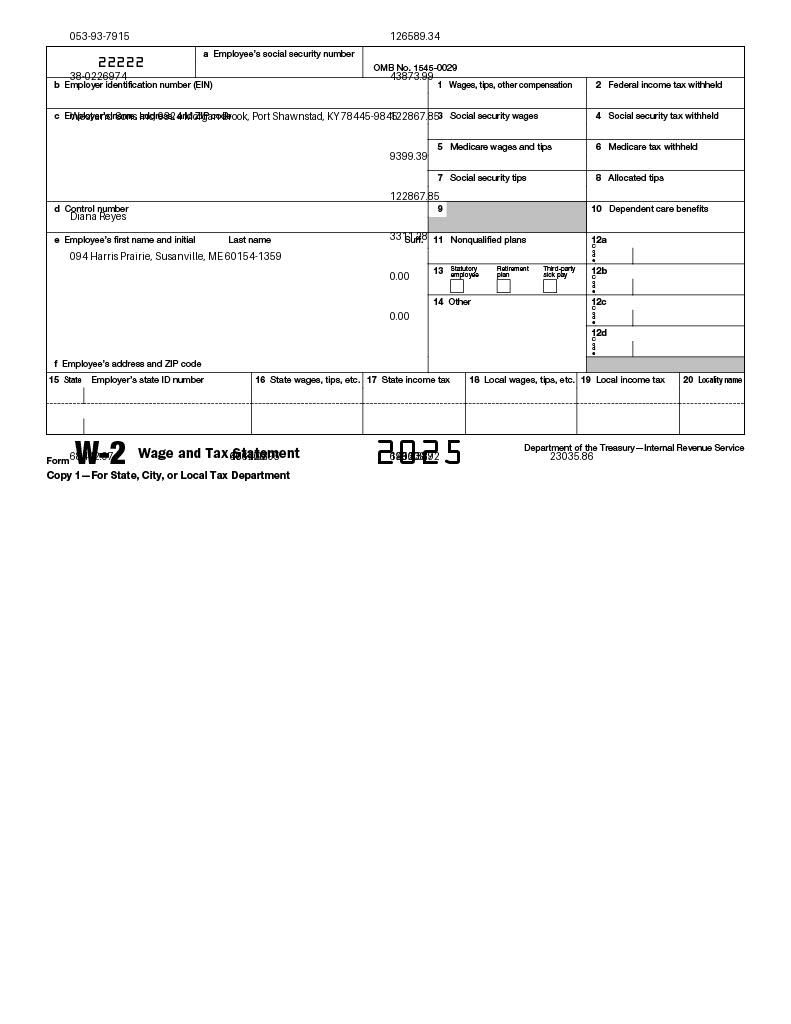
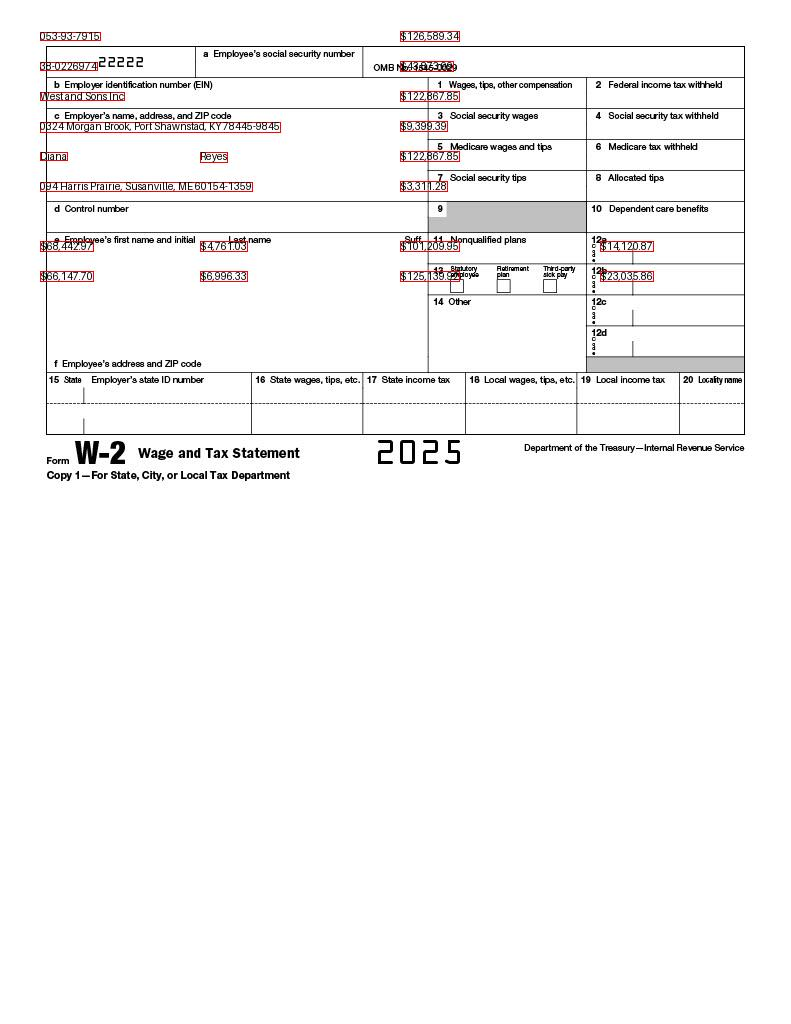
dev: added bounding boxes around inserted text for visual cues on AI model output

diff --git a/tools/edit_form.py b/tools/edit_form.py
@@ -1,62 +1,94 @@
 import os 
 from PIL import Image, ImageDraw, ImageFont 
 
-image_path = "data/w2_unfilled.jpg" 
+image_path = "input/data/image/w2_unfilled.jpg" 
 new_values = {
   "new_values": {
-    "Employee's Social Security Number": {"position": [70, 30], "new_value": "053-93-7915"},
-    "Employer Identification Number (EIN)": {"position": [70, 70], "new_value": "38-0226974"},
-    "Employer's Name, Address, and ZIP Code": {"position": [70, 110], "new_value": "West and Sons Inc, 0324 Morgan Brook, Port Shawnstad, KY 78445-9845"},
-    "Employee's First Name and Initial, Last Name, Suffix": {"position": [70, 210], "new_value": "Diana Reyes"},
-    "Employee's Address and ZIP Code": {"position": [70, 250], "new_value": "094 Harris Prairie, Susanville, ME 60154-1359"},
-    "Wages, Tips, Other Compensation": {"position": [390, 30], "new_value": "126589.34"},
-    "Federal Income Tax Withheld": {"position": [390, 70], "new_value": "43873.99"},
-    "Social Security Wages": {"position": [390, 110], "new_value": "122867.85"},
-    "Social Security Tax Withheld": {"position": [390, 150], "new_value": "9399.39"},
-    "Medicare Wages and Tips": {"position": [390, 190], "new_value": "122867.85"},
-    "Medicare Tax Withheld": {"position": [390, 230], "new_value": "3311.28"},
-    "Social Security Tips": {"position": [390, 270], "new_value": "0.00"},
-    "Allocated Tips": {"position": [390, 310], "new_value": "0.00"},
-    "State Wages, Tips, etc. (HI)": {"position": [70, 450], "new_value": "68442.97"},
-    "State Income Tax (HI)": {"position": [230, 450], "new_value": "4761.03"},
-    "State Wages, Tips, etc. (WI)": {"position": [230, 450], "new_value": "66147.7"},
-    "State Income Tax (WI)": {"position": [390, 450], "new_value": "6996.33"},
-    "Local Wages, Tips, etc. (HI)": {"position": [230, 450], "new_value": "101209.95"},
-    "Local Income Tax (HI)": {"position": [390, 450], "new_value": "14120.87"},
-    "Local Wages, Tips, etc. (WI)": {"position": [390, 450], "new_value": "125139.92"},
-    "Local Income Tax (WI)": {"position": [550, 450], "new_value": "23035.86"}
+    "Employee's Social Security Number": {"position": [40, 30], "new_value": "053-93-7915"},
+    "Employer Identification Number (EIN)": {"position": [40, 60], "new_value": "38-0226974"},
+    "Employer's Name": {"position": [40, 90], "new_value": "West and Sons Inc"},
+    "Employer's Address": {"position": [40, 120], "new_value": "0324 Morgan Brook, Port Shawnstad, KY 78445-9845"},
+    "Employee's First Name": {"position": [40, 150], "new_value": "Diana"},
+    "Employee's Last Name": {"position": [200, 150], "new_value": "Reyes"},
+    "Employee's Address": {"position": [40, 180], "new_value": "094 Harris Prairie, Susanville, ME 60154-1359"},
+    "Wages, Tips, Other Compensation": {"position": [400, 30], "new_value": "$126,589.34"},
+    "Federal Income Tax Withheld": {"position": [400, 60], "new_value": "$43,873.99"},
+    "Social Security Wages": {"position": [400, 90], "new_value": "$122,867.85"},
+    "Social Security Tax Withheld": {"position": [400, 120], "new_value": "$9,399.39"},
+    "Medicare Wages and Tips": {"position": [400, 150], "new_value": "$122,867.85"},
+    "Medicare Tax Withheld": {"position": [400, 180], "new_value": "$3,311.28"},
+    "HI State Wages, Tips, etc.": {"position": [40, 240], "new_value": "$68,442.97"},
+    "HI State Income Tax": {"position": [200, 240], "new_value": "$4,761.03"},
+    "HI Local Wages, Tips, etc.": {"position": [400, 240], "new_value": "$101,209.95"},
+    "HI Local Income Tax": {"position": [600, 240], "new_value": "$14,120.87"},
+    "WI State Wages, Tips, etc.": {"position": [40, 270], "new_value": "$66,147.70"},
+    "WI State Income Tax": {"position": [200, 270], "new_value": "$6,996.33"},
+    "WI Local Wages, Tips, etc.": {"position": [400, 270], "new_value": "$125,139.92"},
+    "WI Local Income Tax": {"position": [600, 270], "new_value": "$23,035.86"},
 }
 }
 
-def edit_form(image_path: str, new_values: dict, font_size: int = 18) -> str: 
-    image = Image.open(image_path)
-    draw = ImageDraw.Draw(image) 
-
-    font = ImageFont.load_default()  
-
-    # Extract the actual values from the nested structure
-    values_to_edit = new_values.get("new_values", new_values)
+def edit_form(image_data: str, new_values: dict, font_size: int = 18) -> str:
+    """
+    Edit a form image and return it in a format displayable in chat.
     
-    for field, info in values_to_edit.items(): 
-        position = tuple(info["position"])
+    Args:
+        image_data: File path to the image
+        new_values: Dictionary with field positions and values to insert
+        font_size: Font size for the text
+    
+    Returns:
+        Markdown image string that can be displayed in chat
+    """
+    try:
+        image = None 
+        # Load the image
+        if os.path.exists(image_data):
+            print(f"Loading image from {image_data}")
+            image = Image.open(image_data)
+        else:
+            return f"Error: Image file not found at {image_data}"
+        
+        draw = ImageDraw.Draw(image)
 
-        # Erase old text (draw a white box over the field)
-        # draw.rectangle([position, (position[0] + 200, position[1] + 40)], fill="white")
+        # Load a monospaced font for better alignment
+        font = ImageFont.load_default() 
+        
+        # Extract the actual values from the nested structure
+        values_to_edit = new_values.get("new_values", new_values)
+        
+        for field, info in values_to_edit.items():
+            position = tuple(info["position"])
+            new_text = info['new_value'] 
 
-        # Insert new text
-        draw.text(position, info["new_value"], font=font, fill="black")
+            bbox = draw.textbbox(position, new_text, font=font)
+            # print("Position: ", position)
+            # print("Bbox: ", bbox)
+            
+            # Adjust position to center text in the field
+            adjusted_x = bbox[0] + bbox[2] // 2
+            adjusted_y = bbox[1] + bbox[3] // 2
 
+            # Draw rectangle around the text area
+            draw.rectangle(bbox, outline="red", width=1)
+            
+            # Draw the text
+            draw.text(position, new_text, font=font, fill="black")
+            
+        print("Finished drawing text")
+
+    except Exception as e:
+        return f"Error: Could not process image: {e}"
+    
     # Save the edited image
     updated_image_filename = "edited_form.jpg"
     output_dir = "output"
     os.makedirs(output_dir, exist_ok=True)
     updated_image_path = os.path.join(output_dir, updated_image_filename)
     image.save(updated_image_path) 
-    
     # Return a markdown image link that can be displayed in the agent's response
     # image_url = f"/static/edited_form.jpg"
     print(f"Edited tax form saved at {updated_image_path}")
-    # return f"![Edited Form]({image_url})"
 
 if __name__ == "__main__":  
     edit_form(image_path, new_values) 
